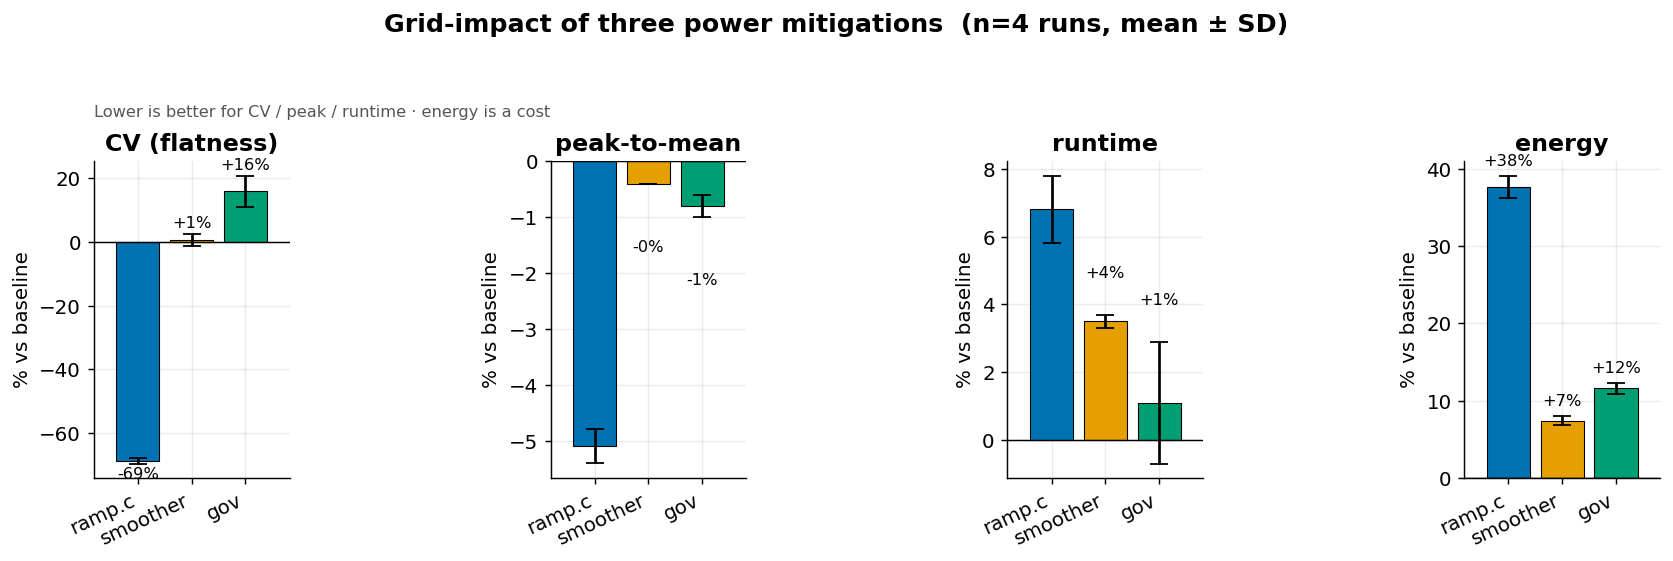
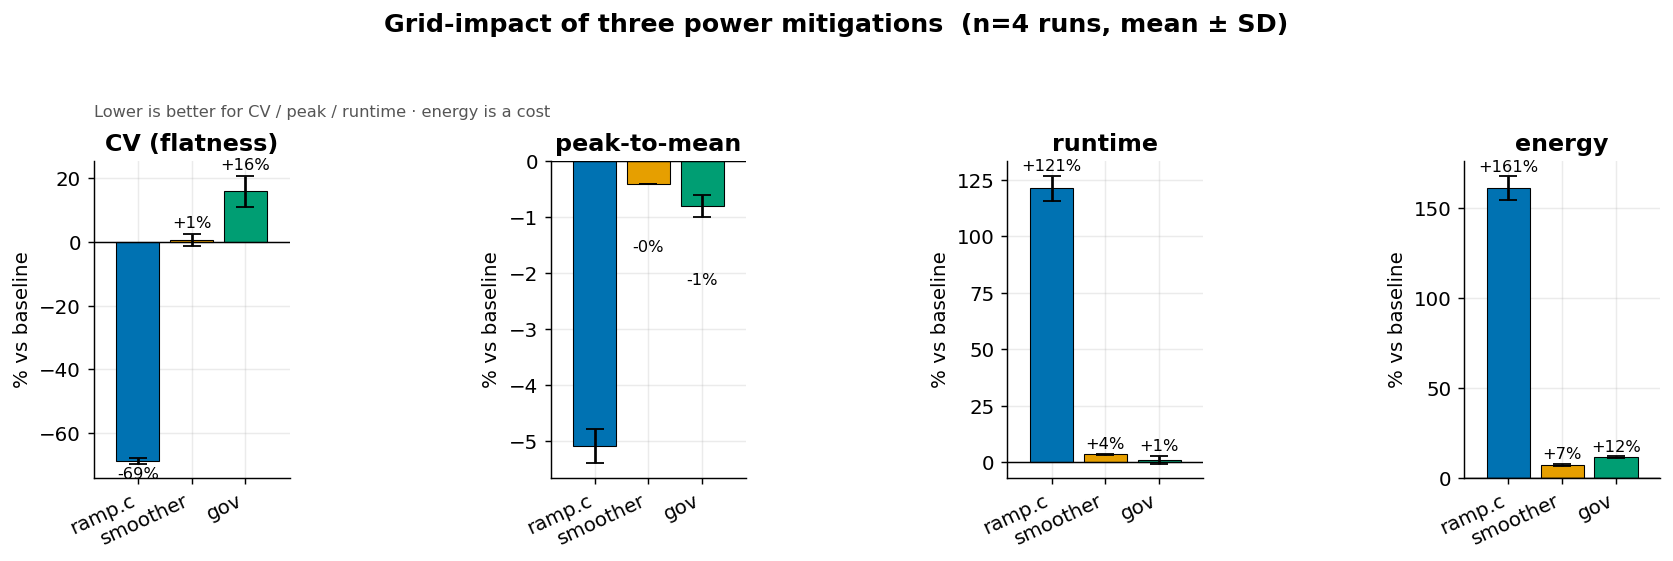
Cost on full trace: ramp.c's real +121% runtime / +161% energy
Score runtime and energy on the full untrimmed trace, not the trimmed plateau --
ramp.c's ramp-up/down ballast is real time and energy the mitigation costs, so
trimming understated it ~2x. CV/peak stay on the plateau (sim). Scoreboard,
per-workload figures, and README result table updated to the honest cost; the
other two mitigations are unchanged (they add no ramp flanks).

diff --git a/grid-simulation/analysis/summarize_n3.py b/grid-simulation/analysis/summarize_n3.py
@@ -12,8 +12,10 @@ Inputs, all checked in:
     data/runs/run<N>/<cell>.csv          raw trace: runtime (last t) + energy
     results/<cell>_r<N>_worst/metrics.json   sim: CV, peak-to-mean (post-UPS)
 where cell = {hpl,aisim2,step}_{baseline,powersmoother,rampc,usagegov}, N=1..4.
-ramp.c traces are trimmed to their real-workload plateau inline (trim_auto.py),
-matching what was simulated.
+Runtime and energy use the FULL untrimmed trace: ramp.c's ramp-up/down ballast
+is real wall-time and real energy the mitigation costs (~2x on ramp.c), so
+trimming it would understate the cost. CV/peak come from the sim, already on the
+plateau (there the padding is only an annualisation artifact).
 
 Ranks on four metrics only. CV and peak-to-mean are direct grid quantities;
 runtime and energy are real costs. The other nine the pipeline emits do not
@@ -31,7 +33,7 @@ from pathlib import Path
 
 ROOT = Path(__file__).resolve().parent.parent
 sys.path.insert(0, str(ROOT / "scripts"))
-from trim_auto import load as trim_load, detect_window, trim  # noqa: E402
+from trim_auto import load as trim_load  # noqa: E402
 
 RUNS = [1, 2, 3, 4]
 WORKLOADS = ["hpl", "aisim2", "step"]
@@ -41,12 +43,14 @@ METRICS = [("CV", "cv_pct"), ("Peak-to-mean", "peak_pct"),
 
 
 def trace_rows(cell, run):
-    """(time, power) rows for a cell; ramp.c trimmed to its plateau like the sim."""
-    rows = trim_load(ROOT / "data" / "runs" / f"run{run}" / f"{cell}.csv")
-    if "rampc" in cell:
-        a, b, _, _ = detect_window(rows)
-        rows = [(t, p) for t, p in trim(rows, a, b)]
-    return rows
+    """Full (untrimmed) (time, power) rows for a cell.
+
+    Used only for the runtime/energy cost. ramp.c is NOT trimmed here: its
+    ramp-up/down ballast is real wall-time and real energy the datacenter spends
+    to run the mitigation (~2x on ramp.c), so trimming it away would understate
+    the cost. CV/peak come from the sim (metrics.json), already on the plateau.
+    """
+    return trim_load(ROOT / "data" / "runs" / f"run{run}" / f"{cell}.csv")
 
 
 def energy_and_dur(rows):
@@ -152,8 +156,9 @@ def write_md(rows, out):
           "collections of the full 3×4 matrix (quiesced server, aisim2 schedule "
           "seed pinned). Negative = mitigation lower (better) for CV/peak/"
           "runtime; energy is a cost either way. CV and peak are on the "
-          "simulated PCC power (post 15 s UPS filter); runtime and energy are "
-          "direct from the RAPL trace.", "",
+          "simulated PCC power (post 15 s UPS filter, plateau only); **runtime "
+          "and energy are the full untrimmed trace** — ramp.c's ramp-up/down "
+          "ballast is real time and energy the mitigation costs.", "",
           "Ranked by CV reduction — the flatness a smoother exists to deliver. "
           "The ± is run-to-run spread; where it rivals the mean (runtime, "
           "energy), a single collection cannot be trusted, which is why three "

diff --git a/grid-simulation/README.md b/grid-simulation/README.md
@@ -21,18 +21,22 @@ number below carries a run-to-run error bar (`data/summary/summary.md`):
 
 | rank | mitigation | CV (flatness) | peak | runtime | energy | verdict |
 |---|---|---|---|---|---|---|
-| 1 | **rampc** | **−68.8 ± 0.9%** | −5.1 ± 0.3% | +6.8 ± 1.0% | +37.6 ± 1.4% | strong smoothing |
+| 1 | **rampc** | **−68.8 ± 0.9%** | −5.1 ± 0.3% | +121 ± 6% | +161 ± 7% | strong smoothing, high cost |
 | 2 | powersmoother | +0.6 ± 1.9% | −0.4% | +3.5 ± 0.2% | +7.4 ± 0.6% | no measurable smoothing |
 | 3 | usagegov | +16.0 ± 4.9% | −0.8 ± 0.2% | +1.1 ± 1.8% | +11.6 ± 0.7% | worsens variability |
 
 Mean ± SD across the four runs. Negative is better for CV/peak/runtime; energy
 is a cost. **di/dt ramp shaping (`rampc`) is the only mitigation that flattens
 the grid-facing load** — it cuts the coefficient of variation of PCC power by
-69%, for a +38% energy and +7% runtime cost. The standalone power smoother does
-nothing measurable at this timescale, and the slew governor makes variability
-worse. The CV bar is tight (±0.9%) even though the raw per-cell runtimes swung
-10–19% between runs — the grid-relevant metric is stable; wall-clock time is the
-noisy one, which is exactly why four collections were taken.
+69%, but at a real cost: **~2.2× wall-time (+121%) and ~2.6× energy (+161%)**,
+because it wraps the workload in ramp-up/down ballast. The standalone power
+smoother does nothing measurable at this timescale, and the slew governor makes
+variability worse. CV is on the trimmed plateau; **runtime and energy are the
+full untrimmed trace**, so the ramp flanks count as the real cost they are (the
+plateau-only figures — +7% runtime, +38% energy — describe only the workload
+once ramped, and understate the mitigation). The CV bar is tight (±0.9%) even
+though raw per-cell runtimes swung 10–19% between runs — the grid metric is
+stable; wall-clock time is the noisy one, which is why four collections were taken.
 
 Regenerate with `python3 analysis/summarize_n3.py` (Python only — the per-run
 metrics are checked in).

diff --git a/grid-simulation/data/summary/summary.md b/grid-simulation/data/summary/summary.md
@@ -2,11 +2,11 @@
 
 | rank | mitigation | CV | peak | runtime | energy | verdict |
 |---|---|---|---|---|---|---|
-| 1 | **rampc** | -68.8 ± 0.9% | -5.1 ± 0.3% | +6.8 ± 1.0% | +37.6 ± 1.4% | strong smoothing: 69% (+/-1) less variability |
+| 1 | **rampc** | -68.8 ± 0.9% | -5.1 ± 0.3% | +121.1 ± 5.7% | +161.0 ± 6.7% | strong smoothing: 69% (+/-1) less variability |
 | 2 | **powersmoother** | +0.6 ± 1.9% | -0.4% | +3.5 ± 0.2% | +7.4 ± 0.6% | no measurable smoothing (+1% (+/-2)) |
 | 3 | **usagegov** | +16.0 ± 4.9% | -0.8 ± 0.2% | +1.1 ± 1.8% | +11.6 ± 0.7% | WORSENS variability by 16% (+/-5) |
 
-Each cell: mean ± standard deviation across four repeat collections of the full 3×4 matrix (quiesced server, aisim2 schedule seed pinned). Negative = mitigation lower (better) for CV/peak/runtime; energy is a cost either way. CV and peak are on the simulated PCC power (post 15 s UPS filter); runtime and energy are direct from the RAPL trace.
+Each cell: mean ± standard deviation across four repeat collections of the full 3×4 matrix (quiesced server, aisim2 schedule seed pinned). Negative = mitigation lower (better) for CV/peak/runtime; energy is a cost either way. CV and peak are on the simulated PCC power (post 15 s UPS filter, plateau only); **runtime and energy are the full untrimmed trace** — ramp.c's ramp-up/down ballast is real time and energy the mitigation costs.
 
 Ranked by CV reduction — the flatness a smoother exists to deliver. The ± is run-to-run spread; where it rivals the mean (runtime, energy), a single collection cannot be trusted, which is why three were taken. Per-cell numbers: `matrix.csv` (run × workload × mitigation).
 
